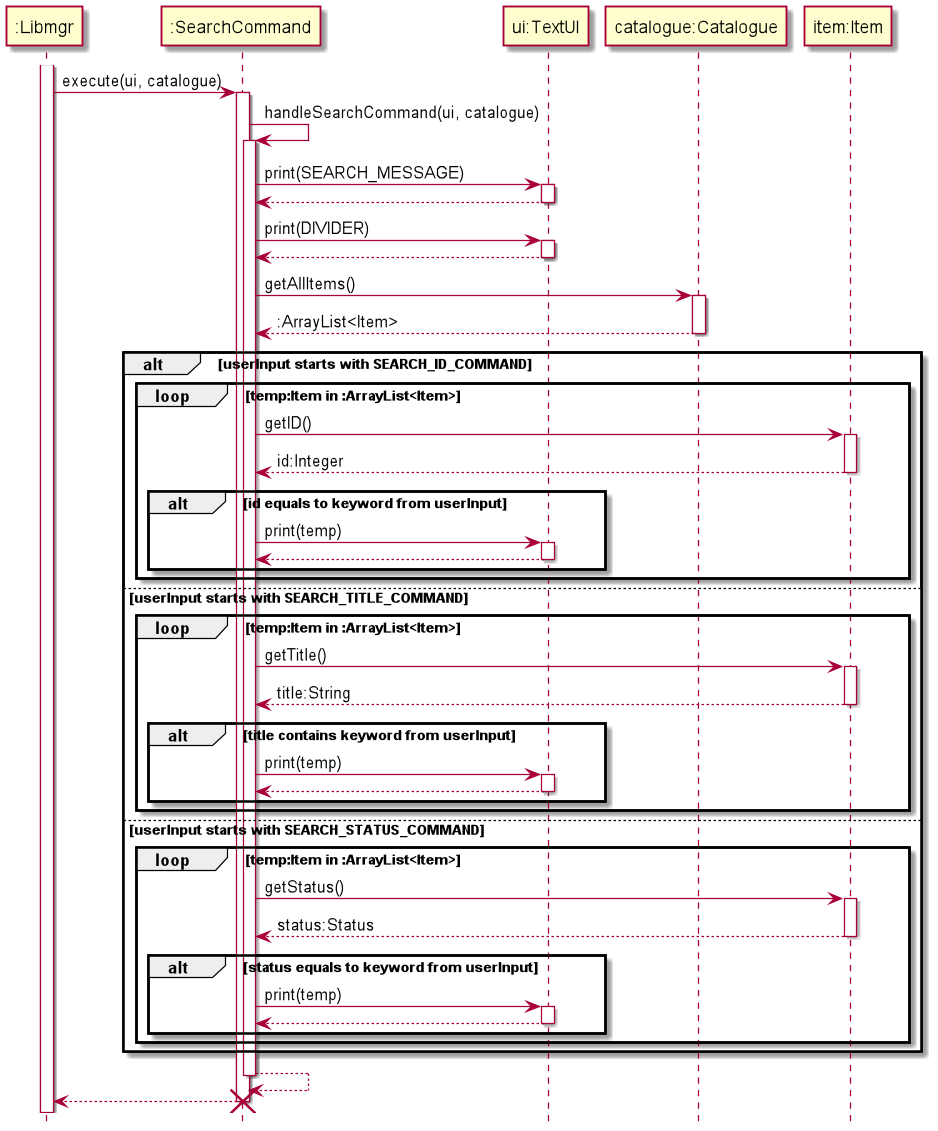
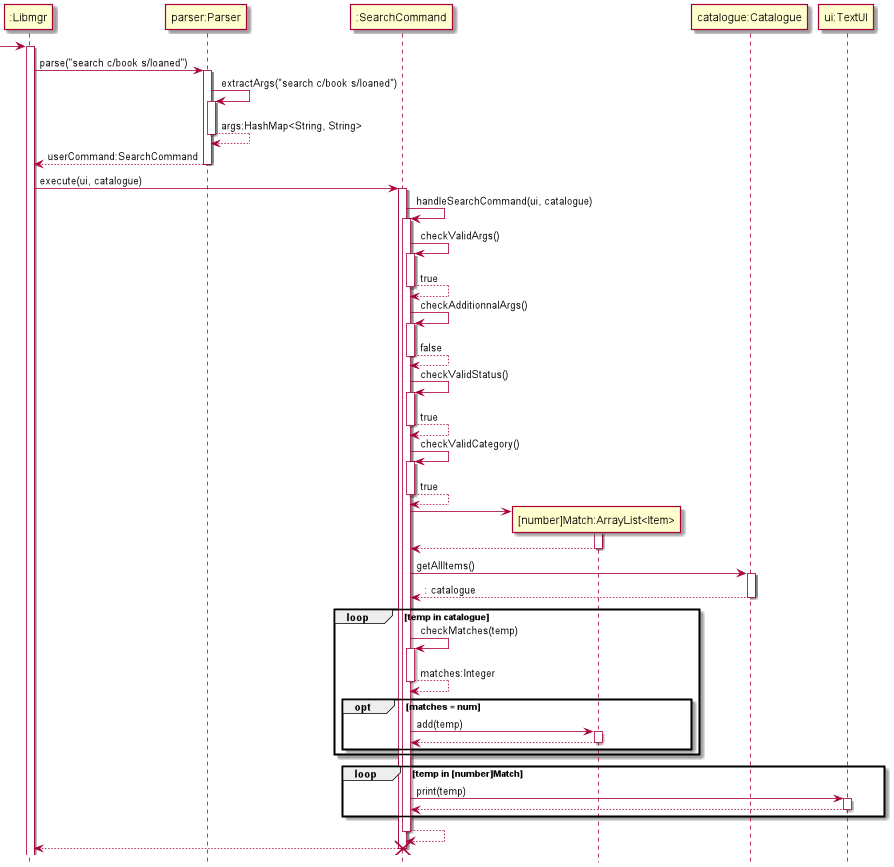
Updated DG

diff --git a/docs/DeveloperGuide.md b/docs/DeveloperGuide.md
@@ -199,6 +199,18 @@ The Edit Command class handles the functionality to change a specific detail of 
 
 ![SearchFunction](img/SearchFunctionSequence.png)
 
+The Search class handles the functionality to search items based on multiple searching keywords.
+Such keywords include "id", "category", "status", and "title". This sequence diagram shows the interactions occuring
+when the command "search c/book s/loaned" is executed.
+1. `Libmgr` calls `parse()` method in `parser` object, which returns a searchCommand object.
+2. `Libmgr` calls `execute()` method in `searchCommand` object, which calls a `handleSearch()` in itself.
+3. `searchCommand` performs several checks on the args, by calling several methods.
+4. `searchCommand` creates four ArrayList of `Item` called [num]Match, i.e., fourMatch/threeMatch/twoMatch/oneMatch respectively.
+5. `searchCommand` calls `getAllItems()` method in `catalogue` object, which returns an ArrayList of all objects in `catalogue`.
+6. `searchCommand` loops through all items from `catalogue`, calls `checkMatches()` method on each item.
+7. Items with certain number of matches are inserted into one of the four corresponding [num]Match ArrayList.
+8. `searchCommand` then loops through each of four ArrayList, starting from fourMatch, ending with oneMatch, to print out all items in each ArrayList.
+
 ### Loan Command
 
 ![LoanSequenceDiagram](img/LoanSequenceDiagram.png)
